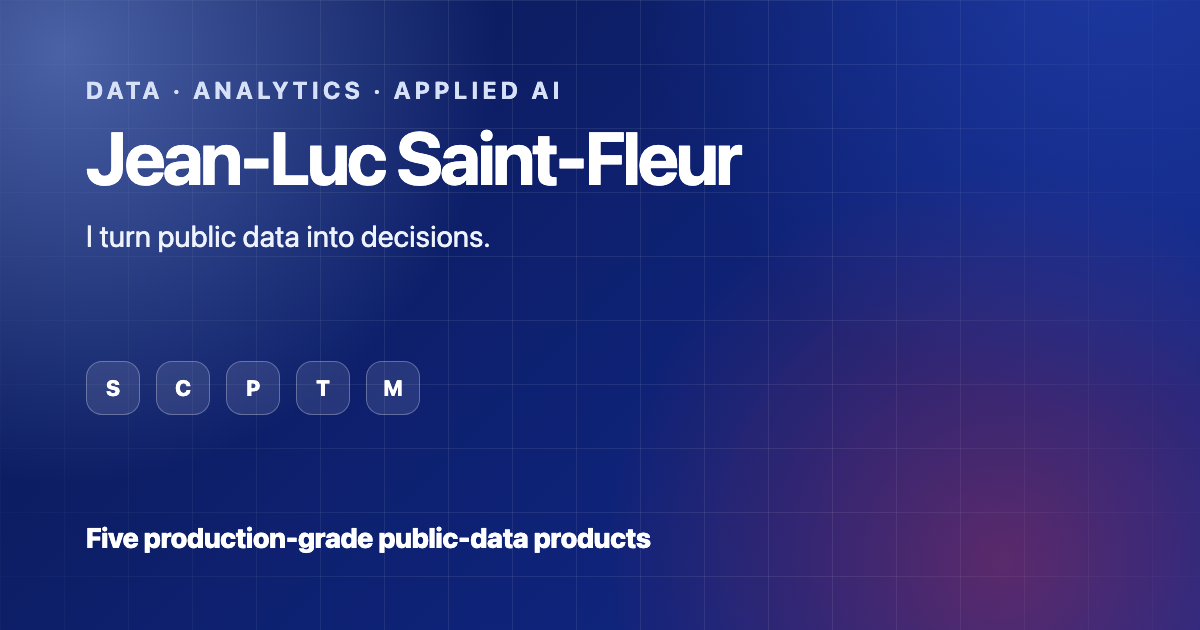
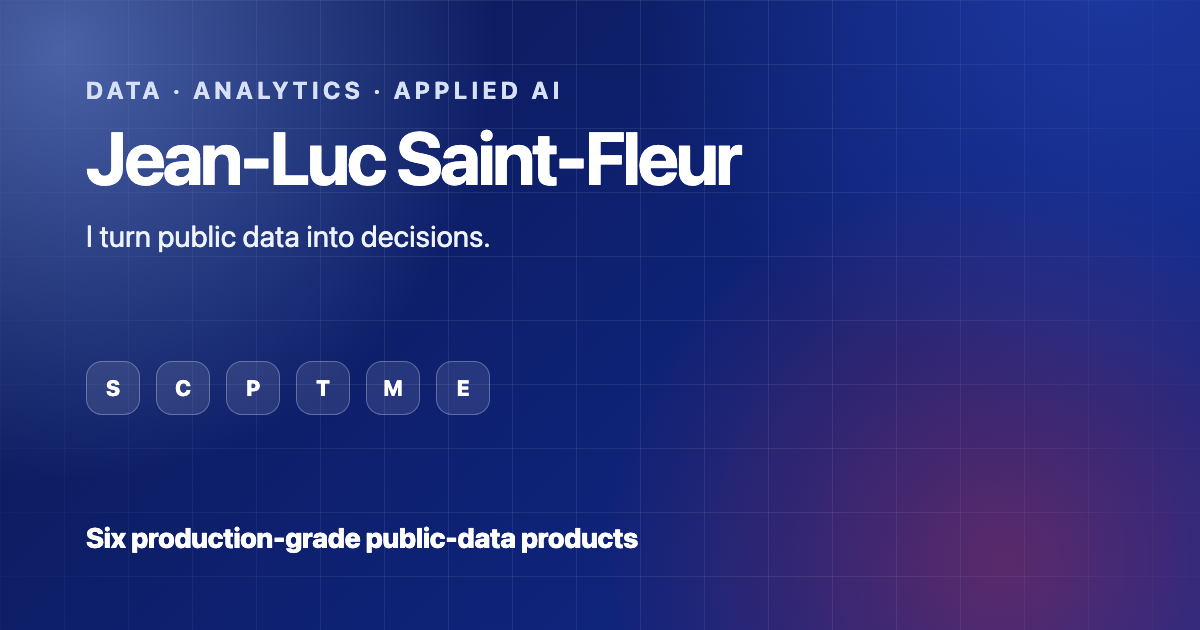
feat(hub): add EconOS portfolio app

Changed region(s): [[0.0617, 0.8143, 0.555, 0.8746], [0.3392, 0.573, 0.4317, 0.6635]]

diff --git a/index.html b/index.html
@@ -4,7 +4,7 @@
 <meta charset="utf-8" />
 <meta name="viewport" content="width=device-width, initial-scale=1" />
 <title>Jean-Luc Saint-Fleur - Data & AI Portfolio</title>
-<meta name="description" content="Five production-grade data products across housing, finance, healthcare, retail, and transportation - turning public data into decisions." />
+<meta name="description" content="Six production-grade data products across housing, finance, healthcare, retail, transportation, and economics - turning public data into decisions." />
 <meta name="theme-color" content="#142d8c" />
 <meta property="og:type" content="website" />
 <meta property="og:title" content="Jean-Luc Saint-Fleur - Data & AI Portfolio" />
@@ -13,7 +13,7 @@
 <meta property="og:url" content="https://jls-portfolio-zeta.vercel.app/" />
 <meta name="twitter:card" content="summary_large_image" />
 <meta name="twitter:title" content="Jean-Luc Saint-Fleur - Data & AI Portfolio" />
-<meta name="twitter:description" content="Five production-grade public-data products for business decisions." />
+<meta name="twitter:description" content="Six production-grade public-data products for business decisions." />
 <meta name="twitter:image" content="https://jls-portfolio-zeta.vercel.app/assets/social-preview.png" />
 <link rel="icon" href="/assets/favicon.svg" type="image/svg+xml" />
 <style>
@@ -97,8 +97,6 @@
   .sub{margin:0;max-width:58ch;color:var(--muted);font-size:15px}
   .gallery{display:grid;grid-template-columns:repeat(6,1fr);gap:16px}
   .product{grid-column:span 2;position:relative;display:flex;flex-direction:column;min-height:100%;border:1px solid var(--line);border-radius:18px;background:var(--panel);padding:12px;box-shadow:0 1px 2px rgba(15,23,42,.04);transition:transform .22s ease,box-shadow .22s ease,border-color .22s ease}
-  .product:nth-last-child(2){grid-column:2/span 2}
-  .product:nth-last-child(1){grid-column:4/span 2}
   .product:hover,.product:focus-within{transform:translateY(-4px);box-shadow:var(--shadow);border-color:color-mix(in srgb,var(--accent) 42%,var(--line))}
   .thumb{position:relative;overflow:hidden;border-radius:13px;border:1px solid var(--line);aspect-ratio:16/9;background:var(--inset)}
   .thumb::after{content:"";position:absolute;inset:0;box-shadow:inset 0 0 0 1px rgba(255,255,255,.14)}
@@ -118,7 +116,7 @@
   .legend span{display:inline-flex;align-items:center;gap:7px}
   .dot{width:12px;height:12px;border-radius:4px;background:var(--brand-600)}
   .dot.half{opacity:.42}
-  .cap-grid{display:grid;grid-template-columns:minmax(170px,1.3fr) repeat(5,minmax(72px,1fr));gap:7px;align-items:stretch}
+  .cap-grid{display:grid;grid-template-columns:minmax(170px,1.3fr) repeat(6,minmax(66px,1fr));gap:7px;align-items:stretch}
   .cap-cell,.cap-head,.cap-row{border-radius:10px;padding:8px;background:var(--inset);font-size:12.5px}
   .cap-head{color:var(--muted);font-weight:800;text-align:center}
   .cap-row{font-weight:750;color:var(--soft)}
@@ -141,8 +139,8 @@
   @keyframes gridDrift{from{background-position:0 0,0 0}to{background-position:68px 34px,68px 34px}}
   @media (prefers-reduced-motion:reduce){*,*::before,*::after{animation-duration:.001ms!important;animation-iteration-count:1!important;scroll-behavior:auto!important;transition-duration:.001ms!important}.motif::before{animation:none}.btn:hover,.product:hover,.product:focus-within{transform:none}}
   @media (min-width:1440px){.wrap{width:min(1240px,calc(100% - 64px))}.motif{width:620px;height:390px}.gallery{gap:22px}}
-  @media (max-width:980px){.hero-grid,.split{grid-template-columns:1fr}.motif{width:70vw;opacity:.36}.gallery{grid-template-columns:1fr 1fr}.product,.product:nth-last-child(1),.product:nth-last-child(2){grid-column:auto}.cap-grid{grid-template-columns:minmax(160px,1fr) repeat(5,54px);overflow-x:auto}.proof-card{max-width:620px}}
-  @media (max-width:680px){.wrap{width:min(100% - 32px,1120px)}nav a{display:none}.nav{height:56px}.wordmark{font-size:15px}.hero{padding:26px 0 12px}.hero-grid{gap:18px}.motif{display:none}h1{font-size:38px}.lede{font-size:15.5px;margin-top:13px}.impact-line{font-size:12.5px}.cta{margin-top:16px}.proof-card{padding:14px}.stats{grid-template-columns:repeat(2,minmax(0,1fr));gap:8px}.stat{min-height:72px;padding:11px}.stat b{font-size:27px}.stat span{font-size:12px}section{padding:28px 0}.gallery{grid-template-columns:1fr}.section-head{display:block}.section-head .sub{margin-top:8px}.product{padding:12px}.split{gap:14px}.panel{padding:18px}.cap-grid{grid-template-columns:150px repeat(5,50px)}}
+  @media (max-width:980px){.hero-grid,.split{grid-template-columns:1fr}.motif{width:70vw;opacity:.36}.gallery{grid-template-columns:1fr 1fr}.product{grid-column:auto}.cap-grid{grid-template-columns:minmax(160px,1fr) repeat(6,54px);overflow-x:auto}.proof-card{max-width:620px}}
+  @media (max-width:680px){.wrap{width:min(100% - 32px,1120px)}nav a{display:none}.nav{height:56px}.wordmark{font-size:15px}.hero{padding:26px 0 12px}.hero-grid{gap:18px}.motif{display:none}h1{font-size:38px}.lede{font-size:15.5px;margin-top:13px}.impact-line{font-size:12.5px}.cta{margin-top:16px}.proof-card{padding:14px}.stats{grid-template-columns:repeat(2,minmax(0,1fr));gap:8px}.stat{min-height:72px;padding:11px}.stat b{font-size:27px}.stat span{font-size:12px}section{padding:28px 0}.gallery{grid-template-columns:1fr}.section-head{display:block}.section-head .sub{margin-top:8px}.product{padding:12px}.split{gap:14px}.panel{padding:18px}.cap-grid{grid-template-columns:150px repeat(6,50px)}}
 </style>
 </head>
 <body>
@@ -169,10 +167,10 @@
       <div>
         <p class="eyebrow">Data · Analytics · Applied AI</p>
         <h1 id="hero-title">I turn public data into decisions.</h1>
-        <p class="lede">Five production-grade analytics products translate messy public datasets into clear choices for housing, health, finance, transit, and retail leaders.</p>
+        <p class="lede">Six production-grade analytics products translate messy public datasets into clear choices for housing, health, finance, transit, retail, and economic-policy leaders.</p>
         <div class="impact-line" aria-label="Portfolio strengths">
           <span>Executive-ready narratives</span>
-          <span>Validated pipelines</span>
+          <span>Traceable methods</span>
           <span>Honest uncertainty</span>
         </div>
         <div class="cta">
@@ -183,7 +181,7 @@
       <div class="proof-card" aria-label="Portfolio proof points">
         <p class="proof-title">What this portfolio proves</p>
         <div class="stats" aria-label="Portfolio summary">
-          <div class="stat"><b data-count="5">5</b><span>industries</span></div>
+          <div class="stat"><b data-count="6">6</b><span>industries</span></div>
           <div class="stat"><b data-count="12" data-suffix="+">12+</b><span>public datasets</span></div>
           <div class="stat"><b data-count="3">3</b><span>geospatial products</span></div>
           <div class="stat"><b data-count="1">1</b><span>validated ML model</span></div>
@@ -200,8 +198,8 @@
   <section id="products" aria-labelledby="products-title">
     <div class="wrap">
       <div class="section-head">
-        <h2 id="products-title">Five flagship products</h2>
-        <p class="sub">Each live app has a reproducible pipeline, a documented method, and explicit limits.</p>
+        <h2 id="products-title">Six flagship products</h2>
+        <p class="sub">Each live app is built around a real decision workflow, documented methods, and visible limits.</p>
       </div>
       <div class="gallery">
         <article class="product" tabindex="0" aria-labelledby="shelter-title" style="--accent:var(--green-600)">
@@ -244,6 +242,14 @@
           <div class="badges"><span class="badge">Validated ML</span><span class="badge">Segmentation</span><span class="badge">Model card</span></div>
           <div class="links"><a class="live" href="https://jls-marketplace-compass.vercel.app" target="_blank" rel="noreferrer">View live</a><a href="https://github.com/jsaintfleur/jls-marketplace-compass" target="_blank" rel="noreferrer">GitHub</a></div>
         </article>
+        <article class="product" tabindex="0" aria-labelledby="econos-title" style="--accent:var(--brand-600)">
+          <div class="thumb"><img src="assets/thumbs/econos.webp" srcset="assets/thumbs/econos.webp 800w, assets/thumbs/econos@2x.webp 1600w" width="800" height="500" loading="lazy" alt="EconOS live app preview showing economic indicators, household impact, and policy scenario tools" /></div>
+          <div class="accent"></div><span class="sector">Economics · Public Policy</span>
+          <h3 id="econos-title">EconOS</h3><p class="tag">From macroeconomic forces to household outcomes.</p>
+          <p class="outcome">Connects inflation, labor, housing, and rates to household impact, forecasts, and policy scenarios.</p>
+          <div class="badges"><span class="badge">Economic indicators</span><span class="badge">Forecasting</span><span class="badge">Scenario simulator</span></div>
+          <div class="links"><a class="live" href="https://econos-sooty.vercel.app" target="_blank" rel="noreferrer">View live</a></div>
+        </article>
       </div>
     </div>
   </section>
@@ -254,28 +260,28 @@
       <div class="matrix" role="img" aria-labelledby="cap-title" aria-describedby="cap-alt">
         <div class="legend" aria-hidden="true"><span><i class="dot"></i>Covered</span><span><i class="dot half"></i>Not a core feature</span></div>
         <div class="cap-grid" aria-hidden="true">
-          <div></div><div class="cap-head">Shelter</div><div class="cap-head">Care</div><div class="cap-head">Pulse</div><div class="cap-head">Transit</div><div class="cap-head">Market</div>
-          <div class="cap-row">Geospatial analysis</div><div class="cap-cell yes">yes</div><div class="cap-cell yes">yes</div><div class="cap-cell no">no</div><div class="cap-cell yes">yes</div><div class="cap-cell no">no</div>
-          <div class="cap-row">Composite scoring</div><div class="cap-cell yes">yes</div><div class="cap-cell yes">yes</div><div class="cap-cell no">no</div><div class="cap-cell yes">yes</div><div class="cap-cell no">no</div>
-          <div class="cap-row">Forecasting / scenario</div><div class="cap-cell no">no</div><div class="cap-cell no">no</div><div class="cap-cell yes">yes</div><div class="cap-cell yes">yes</div><div class="cap-cell yes">yes</div>
-          <div class="cap-row">Validated ML model</div><div class="cap-cell no">no</div><div class="cap-cell no">no</div><div class="cap-cell no">no</div><div class="cap-cell no">no</div><div class="cap-cell yes">yes</div>
-          <div class="cap-row">Anomaly detection</div><div class="cap-cell no">no</div><div class="cap-cell no">no</div><div class="cap-cell yes">yes</div><div class="cap-cell yes">yes</div><div class="cap-cell no">no</div>
-          <div class="cap-row">Segmentation</div><div class="cap-cell yes">yes</div><div class="cap-cell yes">yes</div><div class="cap-cell no">no</div><div class="cap-cell no">no</div><div class="cap-cell yes">yes</div>
-          <div class="cap-row">Prioritization</div><div class="cap-cell yes">yes</div><div class="cap-cell no">no</div><div class="cap-cell no">no</div><div class="cap-cell yes">yes</div><div class="cap-cell no">no</div>
-          <div class="cap-row">Reproducible pipeline</div><div class="cap-cell yes">yes</div><div class="cap-cell yes">yes</div><div class="cap-cell yes">yes</div><div class="cap-cell yes">yes</div><div class="cap-cell yes">yes</div>
+          <div></div><div class="cap-head">Shelter</div><div class="cap-head">Care</div><div class="cap-head">Pulse</div><div class="cap-head">Transit</div><div class="cap-head">Market</div><div class="cap-head">Econ</div>
+          <div class="cap-row">Geospatial analysis</div><div class="cap-cell yes">yes</div><div class="cap-cell yes">yes</div><div class="cap-cell no">no</div><div class="cap-cell yes">yes</div><div class="cap-cell no">no</div><div class="cap-cell no">no</div>
+          <div class="cap-row">Composite scoring</div><div class="cap-cell yes">yes</div><div class="cap-cell yes">yes</div><div class="cap-cell no">no</div><div class="cap-cell yes">yes</div><div class="cap-cell no">no</div><div class="cap-cell no">no</div>
+          <div class="cap-row">Forecasting / scenario</div><div class="cap-cell no">no</div><div class="cap-cell no">no</div><div class="cap-cell yes">yes</div><div class="cap-cell yes">yes</div><div class="cap-cell yes">yes</div><div class="cap-cell yes">yes</div>
+          <div class="cap-row">Validated ML model</div><div class="cap-cell no">no</div><div class="cap-cell no">no</div><div class="cap-cell no">no</div><div class="cap-cell no">no</div><div class="cap-cell yes">yes</div><div class="cap-cell no">no</div>
+          <div class="cap-row">Anomaly detection</div><div class="cap-cell no">no</div><div class="cap-cell no">no</div><div class="cap-cell yes">yes</div><div class="cap-cell yes">yes</div><div class="cap-cell no">no</div><div class="cap-cell no">no</div>
+          <div class="cap-row">Segmentation</div><div class="cap-cell yes">yes</div><div class="cap-cell yes">yes</div><div class="cap-cell no">no</div><div class="cap-cell no">no</div><div class="cap-cell yes">yes</div><div class="cap-cell no">no</div>
+          <div class="cap-row">Prioritization</div><div class="cap-cell yes">yes</div><div class="cap-cell no">no</div><div class="cap-cell no">no</div><div class="cap-cell yes">yes</div><div class="cap-cell no">no</div><div class="cap-cell no">no</div>
+          <div class="cap-row">Sourced methods</div><div class="cap-cell yes">yes</div><div class="cap-cell yes">yes</div><div class="cap-cell yes">yes</div><div class="cap-cell yes">yes</div><div class="cap-cell yes">yes</div><div class="cap-cell yes">yes</div>
         </div>
         <table id="cap-alt" class="visually-hidden">
-          <caption>Capability matrix for the five portfolio products</caption>
-          <thead><tr><th>Capability</th><th>Shelter</th><th>Care</th><th>Pulse</th><th>Transit</th><th>Market</th></tr></thead>
+          <caption>Capability matrix for the six portfolio products</caption>
+          <thead><tr><th>Capability</th><th>Shelter</th><th>Care</th><th>Pulse</th><th>Transit</th><th>Market</th><th>Econ</th></tr></thead>
           <tbody>
-            <tr><td>Geospatial analysis</td><td>Yes</td><td>Yes</td><td>No</td><td>Yes</td><td>No</td></tr>
-            <tr><td>Composite scoring</td><td>Yes</td><td>Yes</td><td>No</td><td>Yes</td><td>No</td></tr>
-            <tr><td>Forecasting or scenario</td><td>No</td><td>No</td><td>Yes</td><td>Yes</td><td>Yes</td></tr>
-            <tr><td>Validated ML model</td><td>No</td><td>No</td><td>No</td><td>No</td><td>Yes</td></tr>
-            <tr><td>Anomaly detection</td><td>No</td><td>No</td><td>Yes</td><td>Yes</td><td>No</td></tr>
-            <tr><td>Segmentation</td><td>Yes</td><td>Yes</td><td>No</td><td>No</td><td>Yes</td></tr>
-            <tr><td>Prioritization</td><td>Yes</td><td>No</td><td>No</td><td>Yes</td><td>No</td></tr>
-            <tr><td>Reproducible pipeline</td><td>Yes</td><td>Yes</td><td>Yes</td><td>Yes</td><td>Yes</td></tr>
+            <tr><td>Geospatial analysis</td><td>Yes</td><td>Yes</td><td>No</td><td>Yes</td><td>No</td><td>No</td></tr>
+            <tr><td>Composite scoring</td><td>Yes</td><td>Yes</td><td>No</td><td>Yes</td><td>No</td><td>No</td></tr>
+            <tr><td>Forecasting or scenario</td><td>No</td><td>No</td><td>Yes</td><td>Yes</td><td>Yes</td><td>Yes</td></tr>
+            <tr><td>Validated ML model</td><td>No</td><td>No</td><td>No</td><td>No</td><td>Yes</td><td>No</td></tr>
+            <tr><td>Anomaly detection</td><td>No</td><td>No</td><td>Yes</td><td>Yes</td><td>No</td><td>No</td></tr>
+            <tr><td>Segmentation</td><td>Yes</td><td>Yes</td><td>No</td><td>No</td><td>Yes</td><td>No</td></tr>
+            <tr><td>Prioritization</td><td>Yes</td><td>No</td><td>No</td><td>Yes</td><td>No</td><td>No</td></tr>
+            <tr><td>Sourced methods</td><td>Yes</td><td>Yes</td><td>Yes</td><td>Yes</td><td>Yes</td><td>Yes</td></tr>
           </tbody>
         </table>
       </div>
@@ -296,7 +302,7 @@
           <li><b>Licenses honored:</b> non-commercial and attribution terms are flagged in each repo and respected.</li>
           <li><b>Computed vs. proposed:</b> calculated outputs stay separate from planned enhancements. No fabricated metrics or impact.</li>
           <li><b>Honest limits:</b> data-sparse geographies, modeled estimates, and baseline comparisons are surfaced.</li>
-          <li><b>Reproducible:</b> each pipeline rebuilds with one command and validates output against a schema gate.</li>
+          <li><b>Reproducible where repo-backed:</b> portfolio pipelines rebuild with one command and validate output against schema gates.</li>
         </ul>
       </div>
     </div>
